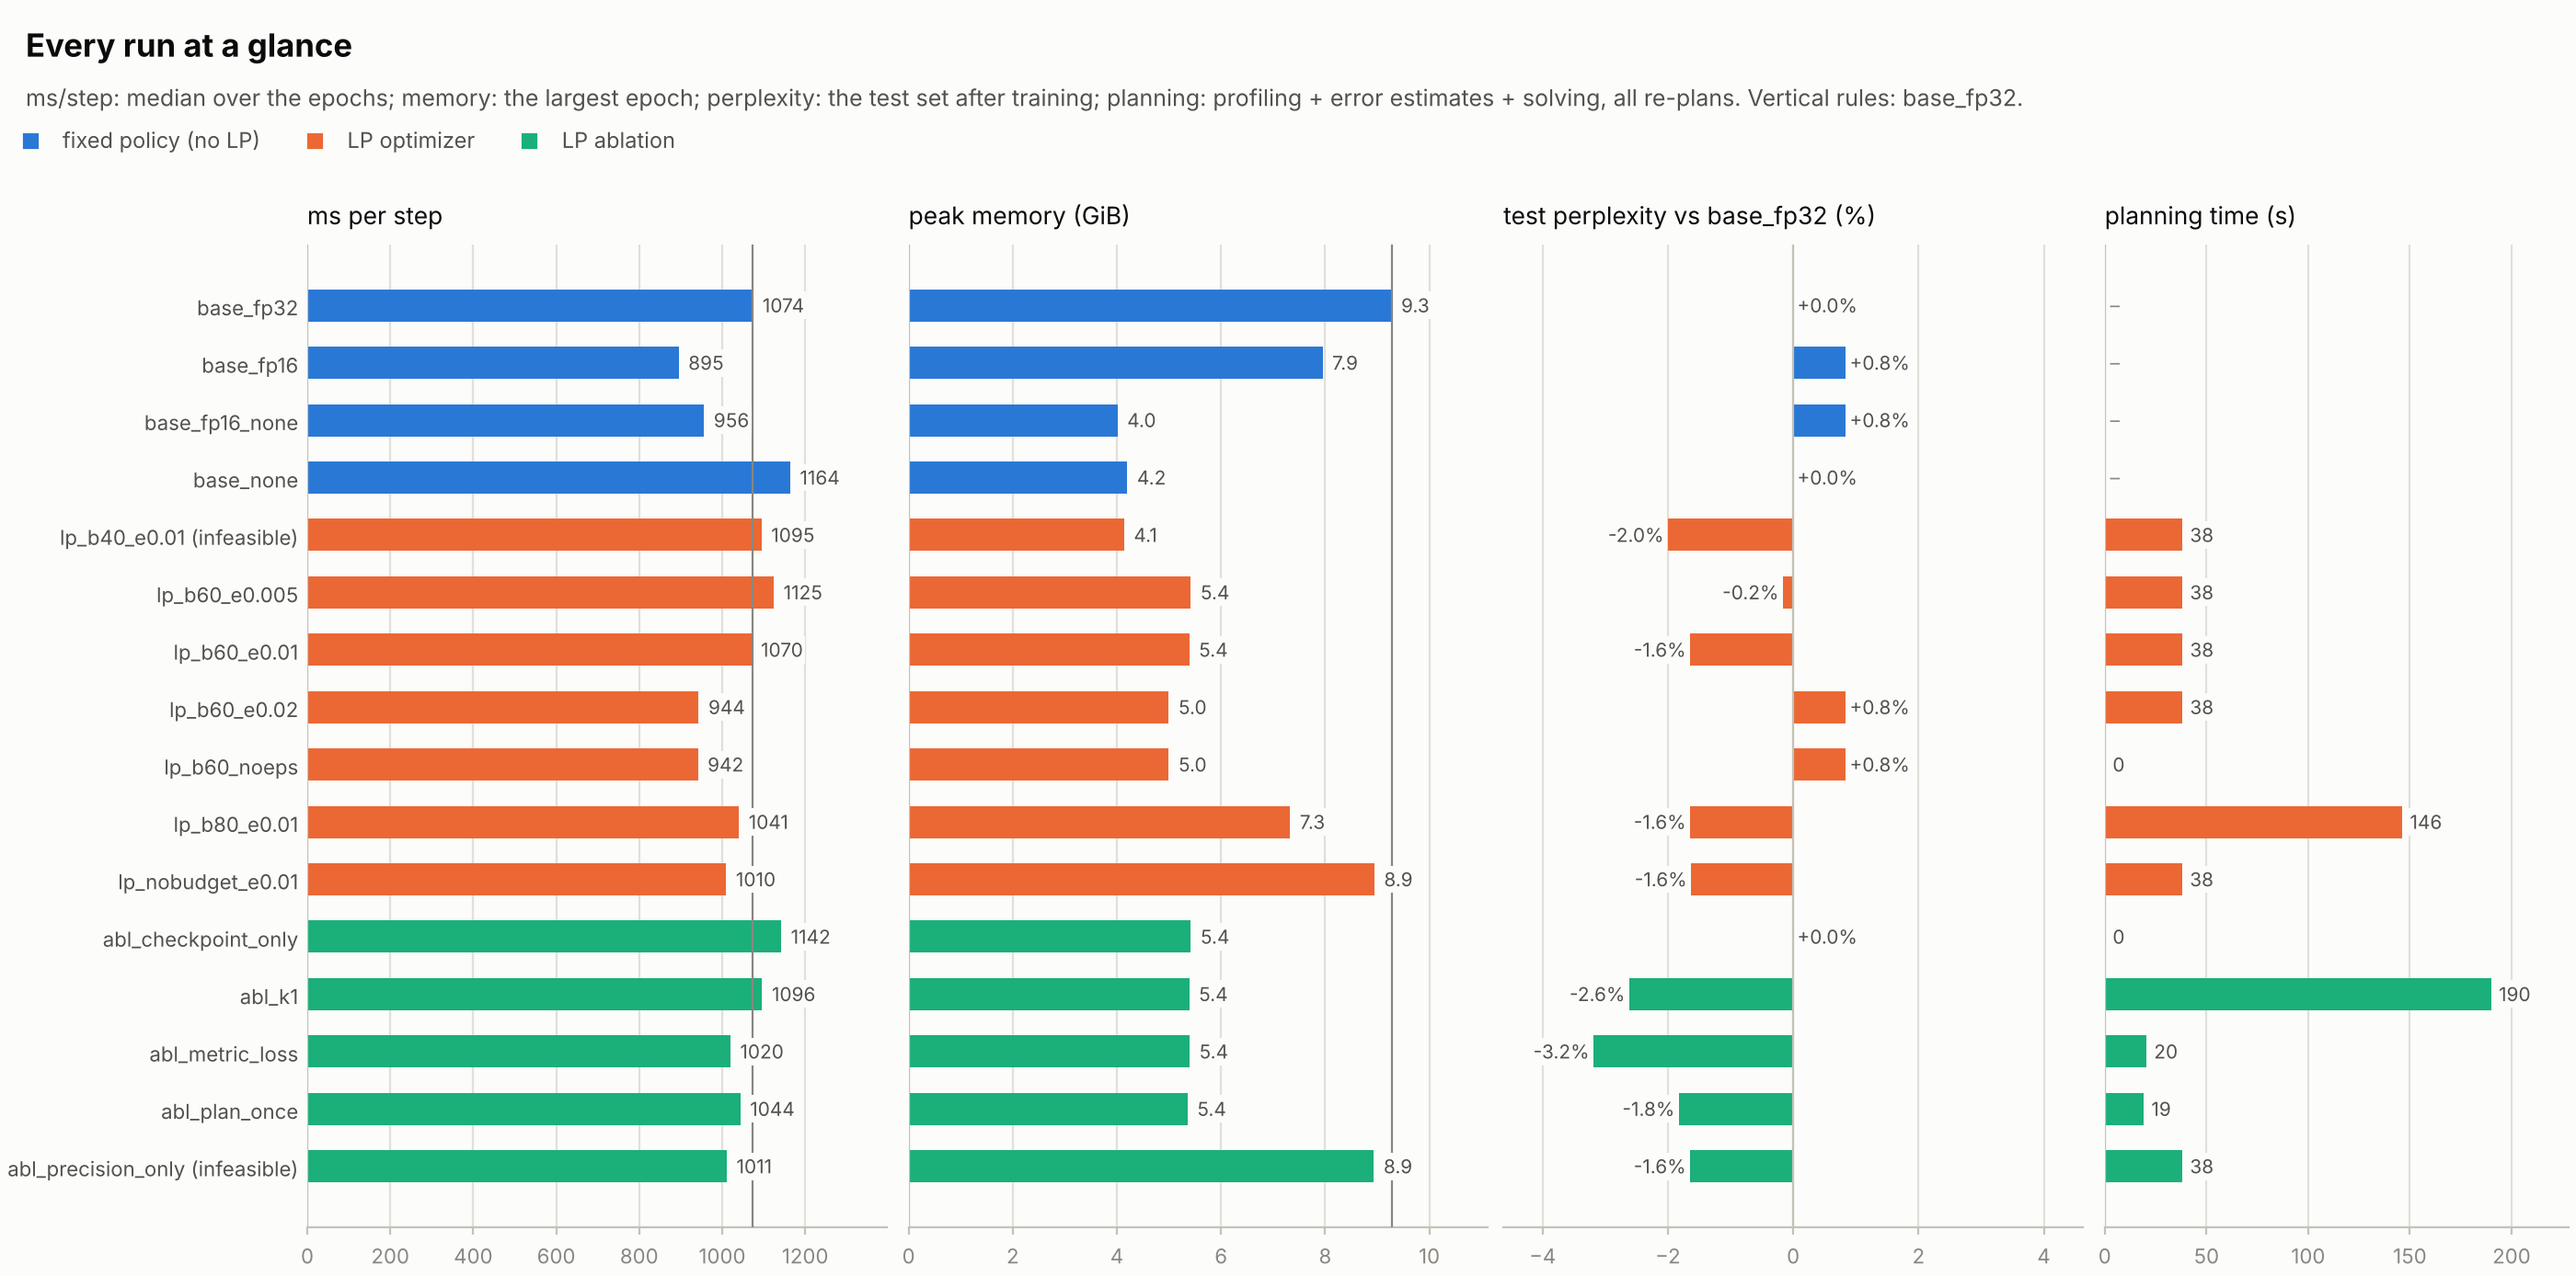
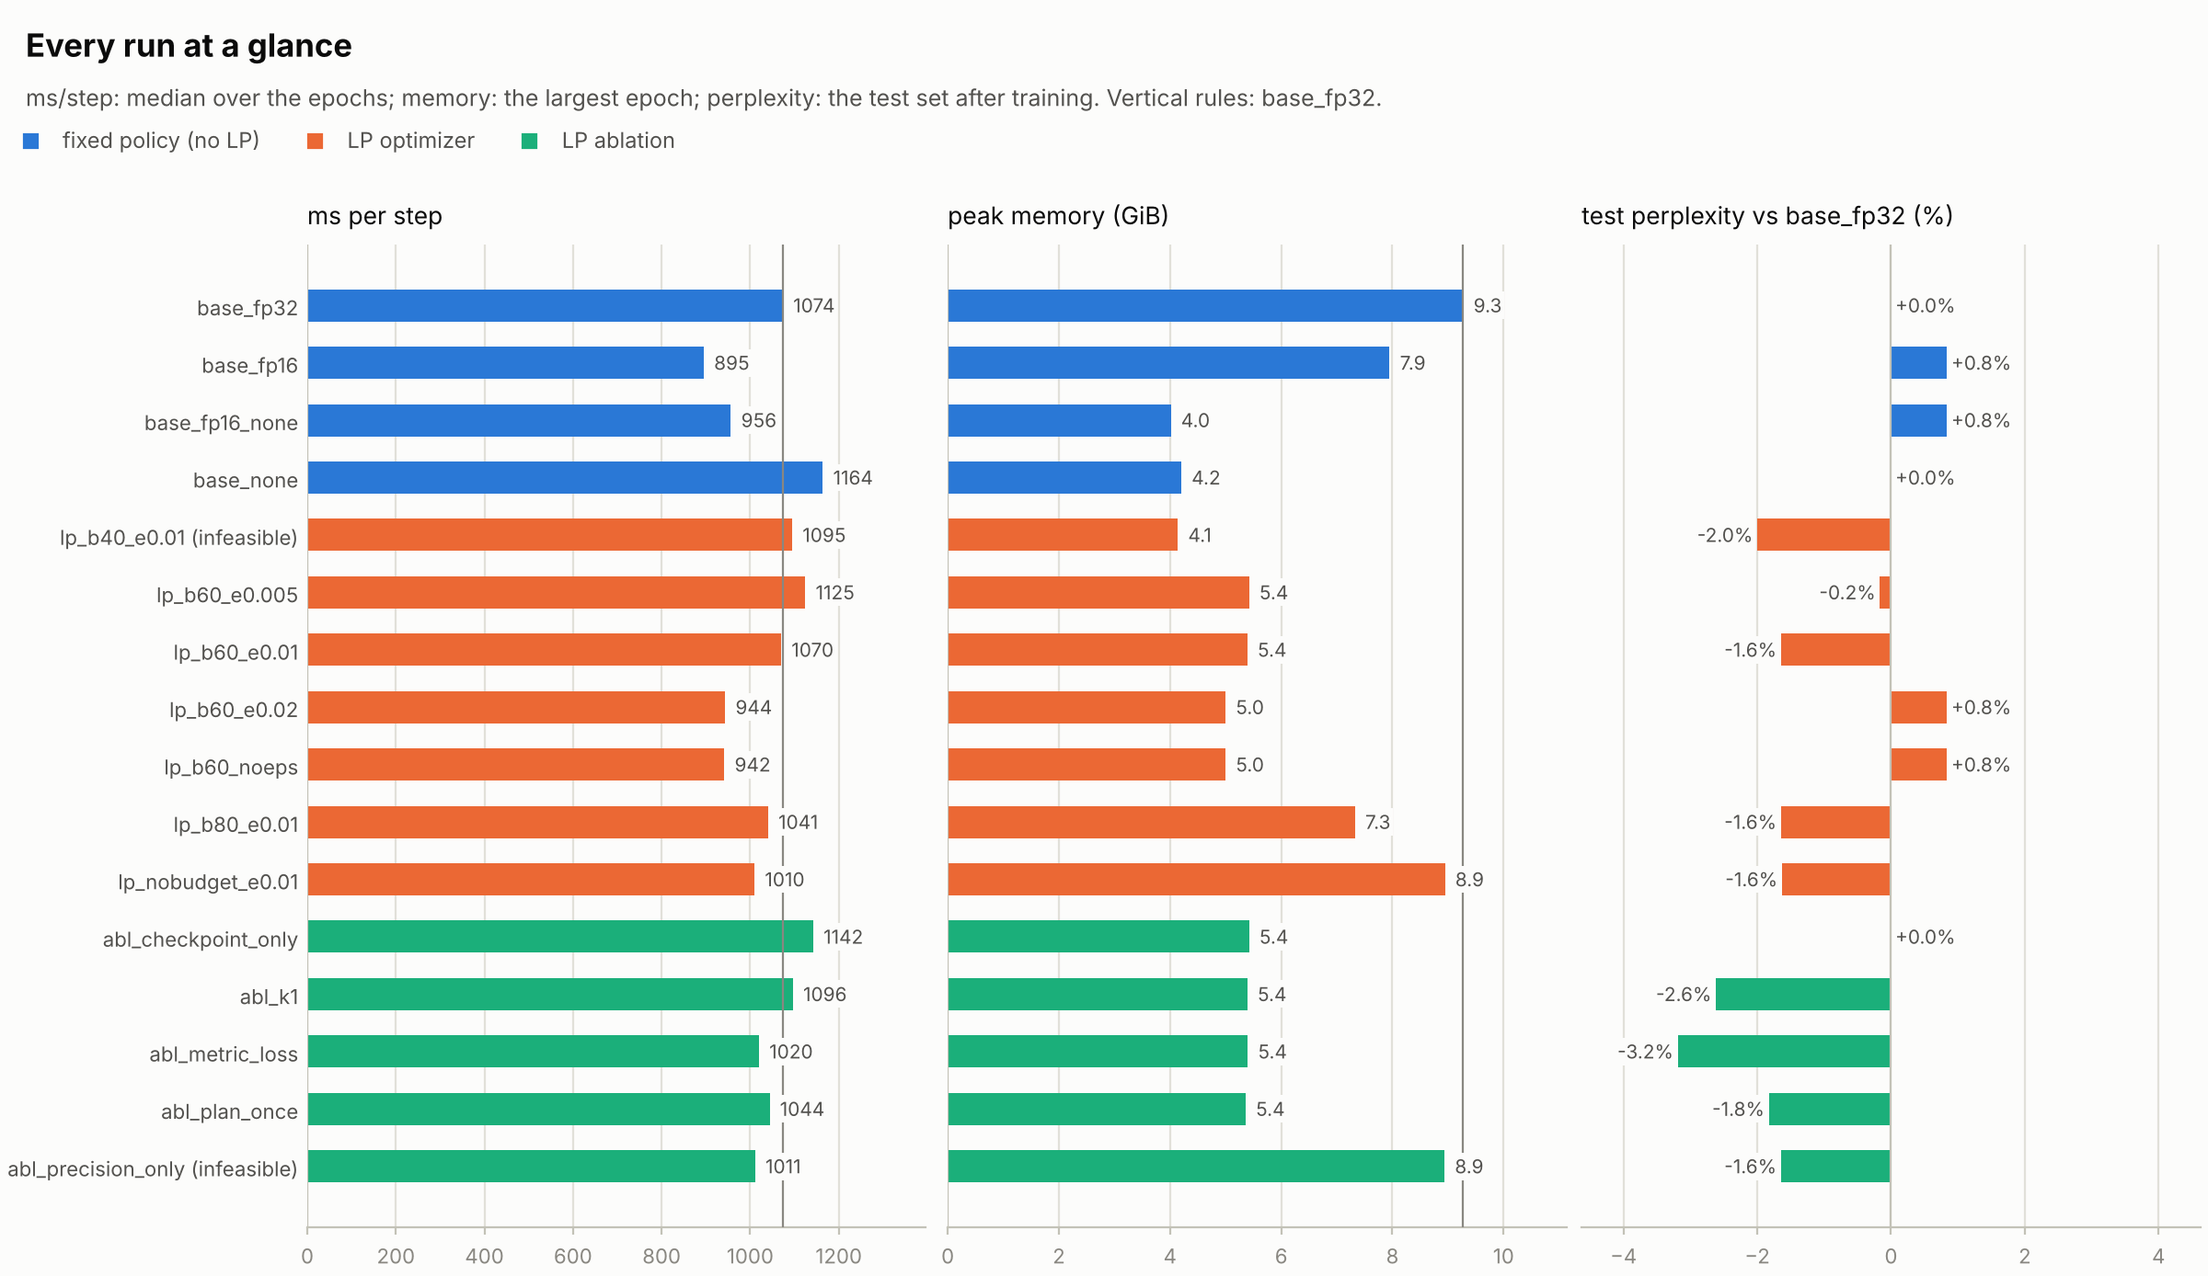
plot.py: drop the loss and re-planning figures, add planning vs training time
The new planning figure compares, for every LP and ablation run, the time
spent training with the time spent planning (profiling, error estimates and
the MILP solve), as a whole-run bar and as planning alone with its share of
the training time. The planning column moves out of the overview, which now
shows ms/step, peak memory and test perplexity only.

Claude-Session: https://claude.ai/code/session_018R1xuVqSa2CU4ARPWfmAds

diff --git a/plot.py b/plot.py
@@ -13,15 +13,13 @@ Runs are grouped by name: a fixed policy (--static, e.g. base_*), an ablation (a
 or an LP optimizer run (the rest). The figures:
 
     tradeoff    step time and test perplexity against peak memory, one point per run
-    overview    every run: ms/step, peak memory, test perplexity vs the reference,
-                planning time
+    overview    every run: ms/step, peak memory, test perplexity vs the reference
     sweeps      the LP runs along the memory budget (at the most common eps) and along
                 the error limit (at the most common budget), with the fixed policies as
                 reference lines
-    loss        training loss relative to the reference per epoch, one panel per run
     plans       the policy of every layer in every epoch, one panel per optimizer run
-    replanning  what the re-plans measured in the run with the most of them: the batch
-                noise, the fp16 error of every layer, the predicted error of the plan
+    planning    the time spent planning (profiling, error estimates, solving) against
+                the time spent training, LP and ablation runs
     model       measured vs predicted peak memory and step time of every plan
 
 Needs matplotlib (pip install matplotlib).
@@ -37,7 +35,7 @@ sys.path.insert(0, os.path.dirname(os.path.abspath(__file__)))
 from apps.summarize_runs import MIB, compare, load, mode, stats  # noqa: E402
 
 GIB = 2 ** 30
-FIGURES = ["tradeoff", "overview", "sweeps", "loss", "plans", "replanning", "model"]
+FIGURES = ["tradeoff", "overview", "sweeps", "plans", "planning", "model"]
 
 # The reference palette of the dataviz method: chart chrome, ink and the categorical
 # slots (fixed order, light and dark steps of the same hues).
@@ -338,16 +336,14 @@ def fig_overview(plt, ctx):
         return None
     t, ref = ctx.t, ctx.ref
     rel = ref is not None and ref.get("test_ppl") is not None
-    fig, axes = plt.subplots(1, 4, figsize=(14, max(3.4, 1.5 + 0.34 * len(rows))), sharey=True, layout="constrained",
-                             gridspec_kw=dict(width_ratios=[1, 1, 1, 0.8]))
+    fig, axes = plt.subplots(1, 3, figsize=(12, max(3.4, 1.5 + 0.34 * len(rows))), sharey=True,
+                             layout="constrained")
     panels = [("ms per step", [r["ms_step"] for r in rows], lambda v: f"{v:.0f}", False,
                ref and ref["ms_step"]),
               ("peak memory (GiB)", [gib(r) for r in rows], lambda v: f"{v:.1f}", False, ref and gib(ref)),
               ("test perplexity vs " + ref["name"] + " (%)" if rel else "test perplexity",
                [pct(r["d_ppl"]) for r in rows] if rel else [r["test_ppl"] for r in rows],
-               (lambda v: f"{v:+.1f}%") if rel else (lambda v: f"{v:.1f}"), rel, None),
-              ("planning time (s)",
-               [r["planning_s"] if r["replans"] else None for r in rows], lambda v: f"{v:.0f}", False, None)]
+               (lambda v: f"{v:+.1f}%") if rel else (lambda v: f"{v:.1f}"), rel, None)]
     for ax, (title, values, fmt, centered, ref_x) in zip(axes, panels):
         bars(ax, ctx, rows, values, fmt, centered)
         if ref_x:
@@ -356,8 +352,7 @@ def fig_overview(plt, ctx):
     axes[0].set_yticks(range(len(rows)), [label(r) for r in rows])
     axes[0].tick_params(axis="y", labelcolor=t["secondary"])
     axes[0].invert_yaxis()
-    sub = ("ms/step: median over the epochs; memory: the largest epoch; perplexity: the test set after training; "
-           "planning: profiling + error estimates + solving, all re-plans.")
+    sub = "ms/step: median over the epochs; memory: the largest epoch; perplexity: the test set after training."
     if ref is not None:
         sub += f" Vertical rules: {ref['name']}."
     header(fig, t, "Every run at a glance", sub, group_handles(ctx, {r["group"] for r in rows}, marker="s"))
@@ -456,58 +451,6 @@ def fig_sweeps(plt, ctx):
     return fig
 
 
-def fig_loss(plt, ctx):
-    ref = ctx.ref
-    if ref is None:
-        return None
-    t = ctx.t
-    others = [r for r in ctx.runs if r is not ref and r["losses"]]
-    if not others:
-        return None
-
-    def rel(r):
-        return [None if a is None or b is None else 100 * (a - b) / b for a, b in zip(r["losses"], ref["losses"])]
-    curves = {r["name"]: rel(r) for r in others}
-    vals = [v for c in curves.values() for v in c if v is not None]
-    lim = max((abs(v) for v in vals), default=1) * 1.15 or 1
-    n = len(others) + 1
-    ncol = 4
-    nrow = -(-n // ncol)
-    fig, axes = plt.subplots(nrow, ncol, figsize=(14, 0.9 + 2.15 * nrow), layout="constrained", squeeze=False)
-    flat = axes.ravel()
-    ax = flat[0]
-    ep = list(range(len(ref["losses"])))
-    ax.plot(ep, ref["losses"], color=ctx.color[ref["group"]])
-    ax.set_title(f"{ref['name']}: training loss")
-    grid(ax)
-    for ax, r in zip(flat[1:], others):
-        for other in others:
-            if other is not r:
-                c = curves[other["name"]]
-                ax.plot(range(len(c)), c, color=t["context"], lw=0.9, zorder=1)
-        c = curves[r["name"]]
-        ax.axhline(0, color=t["baseline"], lw=0.8, zorder=1)
-        ax.plot(range(len(c)), c, color=ctx.color[r["group"]], zorder=3)
-        ax.set_ylim(-lim, lim)
-        ax.set_title(label(r))
-        grid(ax)
-    for ax in flat[n:]:
-        ax.set_visible(False)
-    for ax in flat[:n]:
-        ax.tick_params(labelsize=7.5)
-    for ax in axes[-1]:
-        ax.set_xlabel("epoch")
-    for i, row in enumerate(axes):
-        row[0].set_ylabel("training loss" if i == 0 else "loss vs reference (%)")
-    header(fig, t, f"Training loss of every run relative to {ref['name']}",
-           "Per epoch, (loss − reference) / reference; the other runs in gray for context. "
-           "Runs with the same fp16 layers repeat the same rounding, so their curves coincide.",
-           group_handles(ctx, {r["group"] for r in ctx.runs}))
-    fig.canvas.draw()
-    fig.set_layout_engine("none")
-    return fig
-
-
 def policy_colors(t):
     return {p: tint(t["series"][hue], t["surface"]) if light else t["series"][hue] for p, _, hue, light in POLICIES}
 
@@ -559,58 +502,65 @@ def fig_plans(plt, ctx):
     return fig
 
 
-def fig_replanning(plt, ctx):
-    cands = [r for r in ctx.runs if any("noise" in h and h.get("segment_errors") for h in r["log"].get("replans", []))]
-    if not cands:
+def fig_planning(plt, ctx):
+    rows = [r for r in ctx.by_group("lp", "ablation") if r["log"].get("replans")]
+    if not rows:
         return None
+    from matplotlib.patches import Patch
     t = ctx.t
-    run = max(cands, key=lambda r: (len(r["log"]["replans"]), r["name"]))
-    hist = [h for h in run["log"]["replans"] if "noise" in h and h.get("segment_errors")]
-    eps = run["log"]["config"].get("eps")
-    metric = run["log"]["config"].get("metric", "grad")
-    ep = [h["epoch"] for h in hist]
-    fig, axes = plt.subplots(1, 3, figsize=(14, 4.6), layout="constrained")
-    neutral = t["secondary"]
+
+    def part(r, key):
+        return sum(h.get("seconds", {}).get(key, 0.0) for h in r["log"]["replans"])
+    train = [sum(e.get("seconds") or 0.0 for e in r["log"]["epochs"]) for r in rows]
+    profile = [part(r, "profile") for r in rows]
+    rest = [part(r, "errors") + part(r, "solve") for r in rows]  # the solve itself is well under a second
+    plan = [p + q for p, q in zip(profile, rest)]
+    accent = t["series"][0]
+    full = [accent] * len(rows)
+    faded = [tint(accent, t["surface"], 0.45)] * len(rows)
+    ys = list(range(len(rows)))
+    fig, axes = plt.subplots(1, 2, figsize=(12, max(3.4, 1.6 + 0.36 * len(rows))), sharey=True, layout="constrained",
+                             gridspec_kw=dict(width_ratios=[1.25, 1]))
+
+    def stack(ax, segments, labels):
+        left = [0.0] * len(rows)
+        for widths, colors in segments:
+            ax.barh(ys, widths, left=left, height=0.56, color=colors, zorder=2, linewidth=0)
+            left = [a + b for a, b in zip(left, widths)]
+        span = max(left) or 1
+        for y, x, text in zip(ys, left, labels):
+            ax.text(x + 0.015 * span, y, text, va="center", ha="left", fontsize=7.5, color=t["secondary"])
+        ax.set_xlim(0, (1.12 if len(max(labels, key=len)) < 10 else 1.45) * span)
+        ax.axvline(0, color=t["baseline"], lw=0.8, zorder=3)
+        ax.spines["left"].set_visible(False)
+        ax.tick_params(axis="y", length=0)
+        grid(ax, "x")
 
     ax = axes[0]
-    ax.plot(ep, [h["noise"] for h in hist], color=neutral, marker="o", ms=5, mec=t["surface"])
-    ax.set_title("batch noise " + ("E‖g_b − ḡ‖²" if metric == "grad" else "Var(L_b)"))
-    ax.set_ylim(bottom=0)
-    grid(ax)
-
+    stack(ax, [(train, [t["context"]] * len(rows)), (profile, full), (rest, faded)],
+          [f"{a + b:.0f} s" for a, b in zip(train, plan)])
+    ax.set_title("training + planning, whole run (s)")
     ax = axes[1]
-    nseg = len(hist[0]["segment_errors"])
-    items = []
-    for s in range(nseg):
-        ys = [h["segment_errors"][s] for h in hist]
-        ax.plot(ep, ys, color=t["series"][s % len(t["series"])], lw=1.8)
-        items.append((ys[-1], f"layer {s}"))
-    if eps is not None:
-        ax.axhline(eps, color=t["ink"], lw=1, zorder=1)
-        ax.annotate(f"ε = {eps:g}", (0, eps), xycoords=("axes fraction", "data"), xytext=(2, 3),
-                    textcoords="offset points", fontsize=7.5, color=t["secondary"])
-    ax.set_title("error of one layer in fp16 (RMS / noise)")
-    ax.set_ylim(bottom=0, top=max(max(h["segment_errors"]) for h in hist + [{"segment_errors": [eps or 0]}]) * 1.2)
-    grid(ax)
-    placer = end_labels(fig, ax, items, t)
-
-    ax = axes[2]
-    pe = [(h["epoch"], h["predicted_error"]) for h in hist if h.get("predicted_error") is not None]
-    if pe:
-        ax.plot(*zip(*pe), color=neutral, marker="o", ms=5, mec=t["surface"])
-    if eps is not None:
-        ax.axhline(eps, color=t["ink"], lw=1, zorder=1)
-        ax.annotate(f"ε = {eps:g}", (0, eps), xycoords=("axes fraction", "data"), xytext=(2, 3),
-                    textcoords="offset points", fontsize=7.5, color=t["secondary"])
-    ax.set_ylim(bottom=0, top=max([v for _, v in pe] + [eps or 0]) * 1.2)
-    ax.set_title("predicted error of the chosen plan")
-    grid(ax)
-    for ax in axes:
-        ax.set_xlabel("epoch of the re-plan")
-    header(fig, t, f"What the re-plans measured in {run['name']} ({run_mode(run)})",
-           "The errors are RMS fractions of the batch noise measured at the same re-plan; they add in squares, "
-           "so ε admits roughly (ε / layer error)² layers in fp16.")
-    finalize(fig, [placer])
+    notes = []
+    for r, p, tr in zip(rows, plan, train):
+        if r["log"]["config"].get("eps") is None:
+            notes.append(f"{p:.0f} s  ·  no ε, no error estimate")
+        else:
+            notes.append(f"{p:.0f} s  ·  {100 * p / tr:.1f}% of training" if tr else f"{p:.0f} s")
+    stack(ax, [(profile, full), (rest, faded)], notes)
+    ax.set_title("planning only (s)")
+    axes[0].set_yticks(ys, [label(r) for r in rows])
+    axes[0].tick_params(axis="y", labelcolor=t["secondary"])
+    axes[0].invert_yaxis()
+    handles = [Patch(color=t["context"], label="training (all epochs)"), Patch(color=full[0], label="profiling"),
+               Patch(color=faded[0], label="error estimates + MILP solve")]
+    profiled = [r["name"] for r in rows if any(h.get("profiled") for h in r["log"]["replans"])]
+    sub = "Planning sums every re-plan of the run; the MILP solve itself takes under a second."
+    if profiled and len(profiled) < len(rows):
+        sub += f" Only {', '.join(profiled)} profiled the model; the other runs reused its saved profile."
+    header(fig, t, "Time spent planning against time spent training", sub, handles)
+    fig.canvas.draw()
+    fig.set_layout_engine("none")
     return fig
 
 
@@ -661,8 +611,8 @@ def fig_model(plt, ctx):
     return fig
 
 
-BUILDERS = dict(tradeoff=fig_tradeoff, overview=fig_overview, sweeps=fig_sweeps, loss=fig_loss, plans=fig_plans,
-                replanning=fig_replanning, model=fig_model)
+BUILDERS = dict(tradeoff=fig_tradeoff, overview=fig_overview, sweeps=fig_sweeps, plans=fig_plans,
+                planning=fig_planning, model=fig_model)
 
 
 def main(argv=None):

diff --git a/tests/experiments/test_scripts.py b/tests/experiments/test_scripts.py
@@ -97,6 +97,6 @@ def test_plot_every_figure(tmp_path):
     written = main([str(tmp_path), "--out", str(out)])
     assert sorted(written) == sorted(str(out / f"{f}.png") for f in FIGURES)
     assert all((out / f"{f}.png").stat().st_size > 10_000 for f in FIGURES)
-    # without the reference run the relative figures are skipped, the rest still drawn
+    # one run: the figures that compare runs are skipped, the rest still drawn
     written = main([str(tmp_path / "lp_b60_e0.01.json"), "--out", str(out / "one"), "--theme", "dark"])
-    assert str(out / "one" / "plans.png") in written and str(out / "one" / "loss.png") not in written
+    assert str(out / "one" / "planning.png") in written and str(out / "one" / "sweeps.png") not in written
